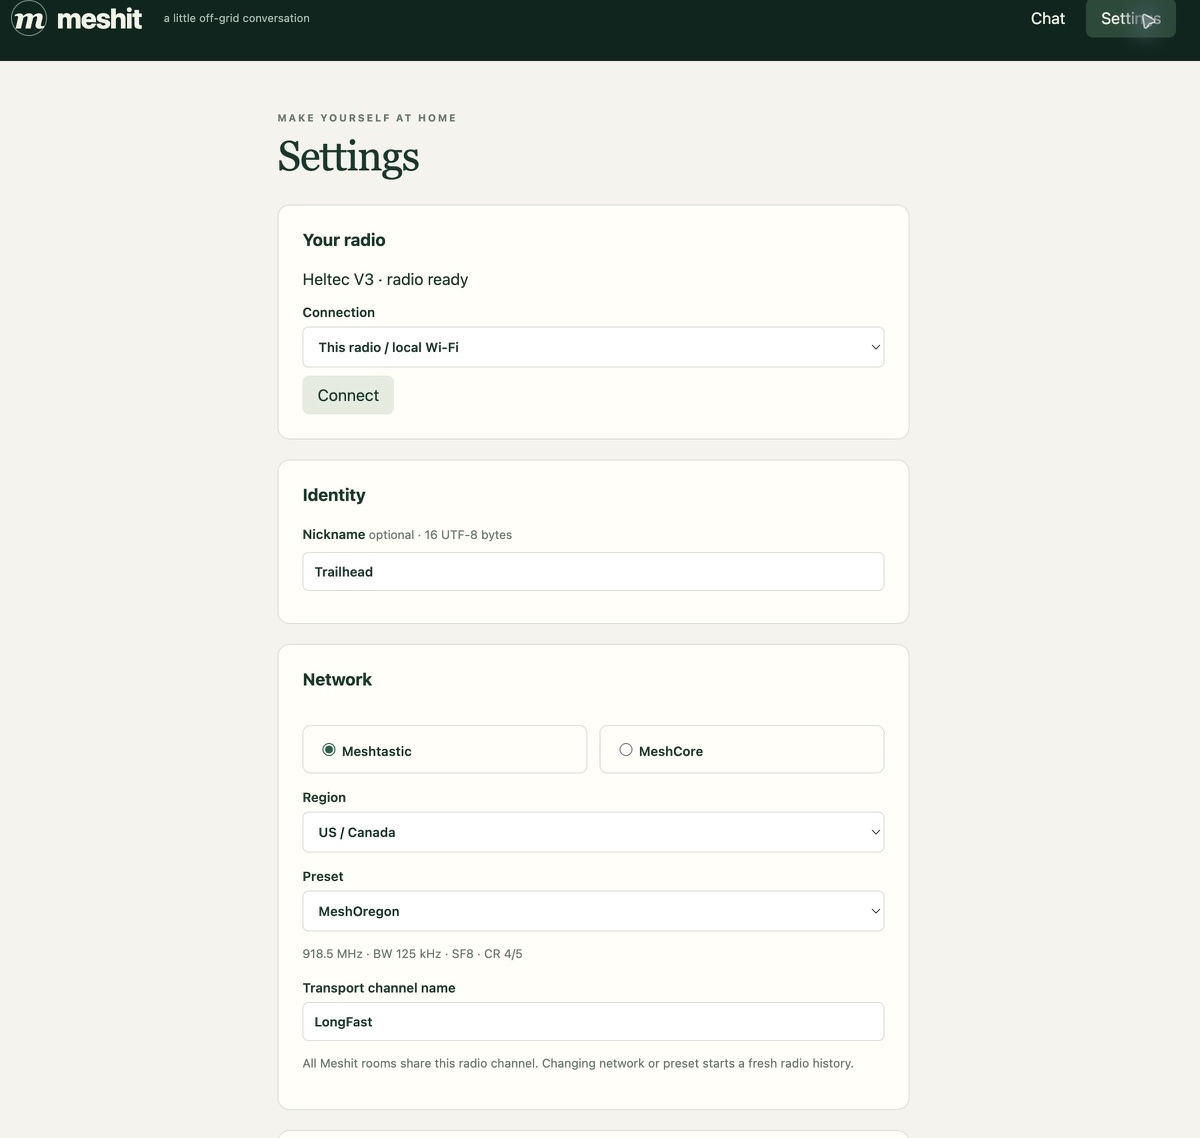
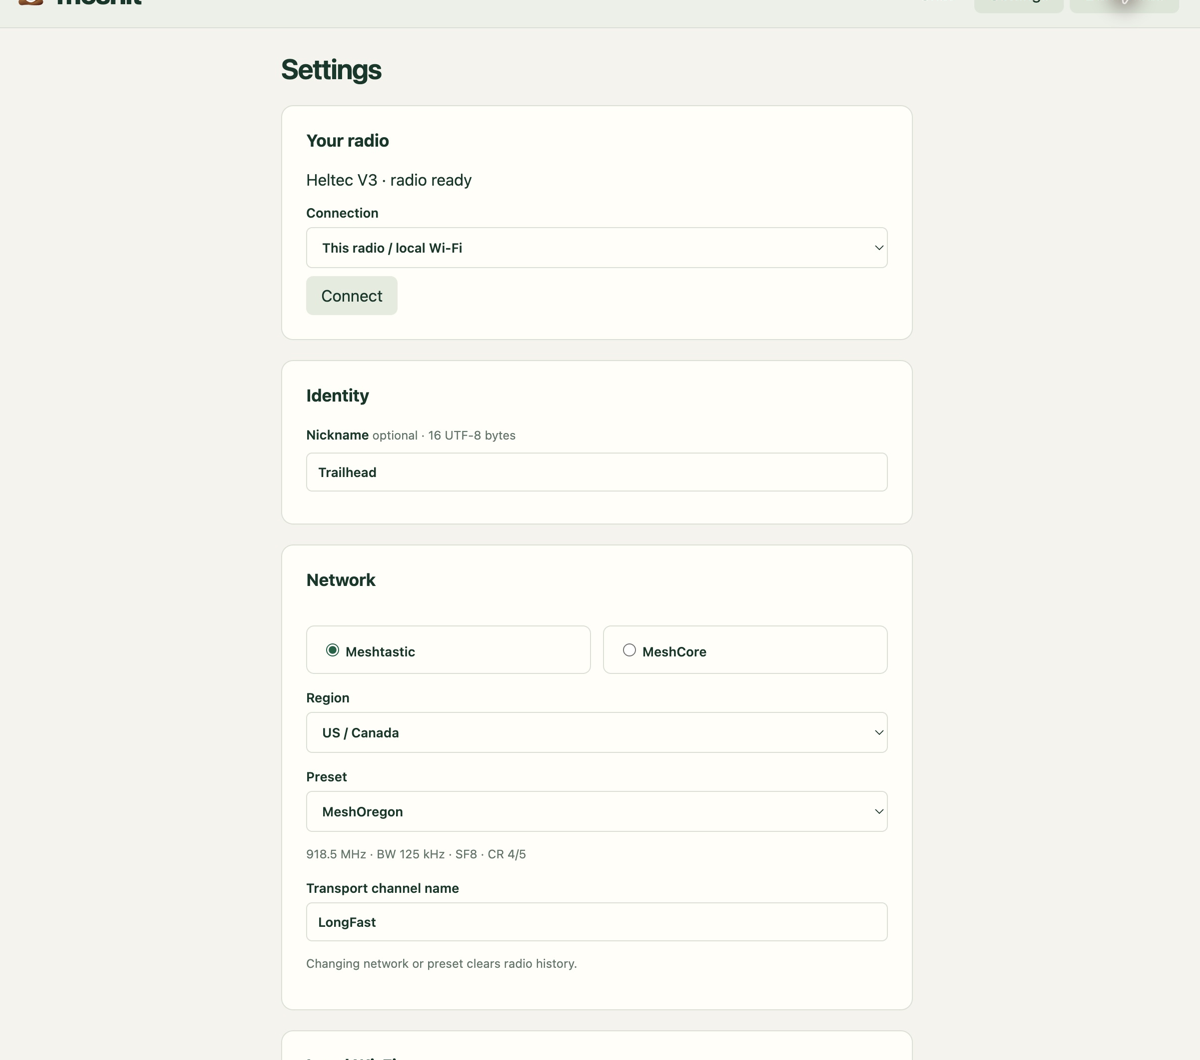
Refresh app screenshots and document appearance controls

diff --git a/docs/VALIDATION.md b/docs/VALIDATION.md
@@ -20,7 +20,7 @@ Host round trips and upstream format inspection do not prove interoperability wi
 
 Local Wi-Fi setup, LAN joining, `meshit.local` discovery, BLE reconnection and notification pacing require radios and real Android/iOS devices. The iOS simulator cannot validate BLE; the installed simulator service also reported a runtime-version mismatch during compilation. Android signing/distribution and iOS provisioning are not configured.
 
-Desktop Chrome visual review and chat/settings screenshots were completed using the local simulator during the documentation update. No mobile viewport or physical-device screenshots were captured. UI/API behavior and native bundling were checked through tests and builds. The local preview is available through `npm run dev`.
+Desktop Chrome visual review and updated chat screenshots in light/dark mode plus settings screenshots were completed using the local simulator during the documentation update. No mobile viewport or physical-device screenshots were captured. UI/API behavior and native bundling were checked through tests and builds. The local preview is available through `npm run dev`.
 
 The firmware size reports describe linked static RAM and flash, not maximum live heap consumption. No PSRAM is required by the implementation. The documented resource caps are application bounds, not a claim of measured hardware battery life or memory headroom.
 

diff --git a/docs/wiki/Using-Meshit.md b/docs/wiki/Using-Meshit.md
@@ -1,8 +1,16 @@
 # Using Meshit
 
+## Appearance
+
+The 💩 logo identifies Meshit. The interface uses sans-serif fonts and a compact layout. **Chat** opens conversations; **Settings** opens radio configuration.
+
+**Dark mode** in the header toggles between light and dark themes. On first use, the app follows your device preference. After you toggle, that choice is saved locally and survives reloads; it applies to chat, settings, and dialogs. Each browser or companion keeps its own preference.
+
+![Meshit chat in dark mode](../screenshots/chat-dark.png)
+
 ## Rooms and conversations
 
-Choose a room on the left, enter up to **160 Unicode characters**, and select **Post to room**. Select **Reply** beneath a post to start a threaded response; **Cancel reply** returns to a new conversation. Posts are immutable.
+Choose a room on the left, enter up to **160 Unicode characters**, and select **Post**. Select **Reply** beneath a post to start a threaded response; **Cancel reply** returns to a new conversation. Posts are immutable.
 
 Use **New room** to create a room name of up to 16 UTF-8 bytes. A new empty room stays on your companion until its first post, when other radios can discover it. All rooms share the selected transport channel; a room is not a separate private channel.
 

diff --git a/docs/wiki/Connection-and-Settings.md b/docs/wiki/Connection-and-Settings.md
@@ -8,11 +8,13 @@ The initial preset catalog covers US/Canada and EU 868 MHz, with Meshtastic Long
 
 ## Settings
 
+The header’s **Dark mode** toggle changes appearance only; it does not change radio settings or history.
+
 Open **Settings** to change the connection, nickname, radio network, region, and preset. Nicknames are optional and fit 16 UTF-8 bytes; blank means Anonymous. Changing the network or preset starts a fresh radio history.
 
 For a second ESP on the LAN, select **Another radio on Wi-Fi** and enter its HTTP address. In a browser, HTTP RPC must be same-origin; use the radio's own webpage for local Wi-Fi control. Native companions provide the local HTTP adapter.
 
-![Meshit connection, identity, radio, and Wi-Fi settings](../screenshots/settings.png)
+![Meshit connection, identity, and radio settings](../screenshots/settings.png)
 
 Screenshot from the local simulator; no Wi-Fi credentials are shown. The hosted flasher installs firmware; the radio's local page or mobile companion is where you chat.
 

diff --git a/docs/wiki/Home.md b/docs/wiki/Home.md
@@ -1,8 +1,10 @@
-# Meshit wiki
+# 💩 Meshit wiki
 
 Small, threaded LoRa chat on Heltec V3 and RAK4631, using nearby Meshtastic or MeshCore infrastructure.
 
 **[Install firmware](https://meshit.pdxlocs.com)** · **[Release downloads](https://github.com/pdxlocations/meshit/releases)**
+
+The companion has a compact sans-serif layout and light/dark themes. Use **Dark mode** in the header to switch; your choice is saved on that companion.
 
 ## Start here
 
@@ -22,4 +24,6 @@ Small, threaded LoRa chat on Heltec V3 and RAK4631, using nearby Meshtastic or M
 
 ![Meshit chat with rooms and a threaded reply](../screenshots/chat.png)
 
-Screenshot from the local simulator with sample messages. Rebroadcast checks are simulated; this is not a hardware range test.
+![Meshit chat in dark mode](../screenshots/chat-dark.png)
+
+Screenshots from the local simulator with sample messages. Rebroadcast checks are simulated; this is not a hardware range test.

diff --git a/README.md b/README.md
@@ -1,4 +1,4 @@
-# Meshit
+# 💩 Meshit
 
 **[Install firmware → meshit.pdxlocs.com](https://meshit.pdxlocs.com)** · [GitHub Releases](https://github.com/pdxlocations/meshit/releases) · [Wiki](https://github.com/pdxlocations/meshit/wiki) · [Documentation source](docs/wiki/Home.md)
 
@@ -10,7 +10,17 @@ There are no locations, node advertisements, direct messages, explicit radio ack
 
 ## Screenshots
 
+The companion uses a compact sans-serif layout with a 💩 logo and a saved light/dark preference. Use **Dark mode** in the header to switch themes.
+
+**Light mode**
+
 ![Meshit chat with rooms, upvotes, and threaded replies](docs/screenshots/chat.png)
+
+**Dark mode**
+
+![Meshit chat in dark mode](docs/screenshots/chat-dark.png)
+
+**Settings**
 
 ![Meshit radio connection and network settings](docs/screenshots/settings.png)
 
